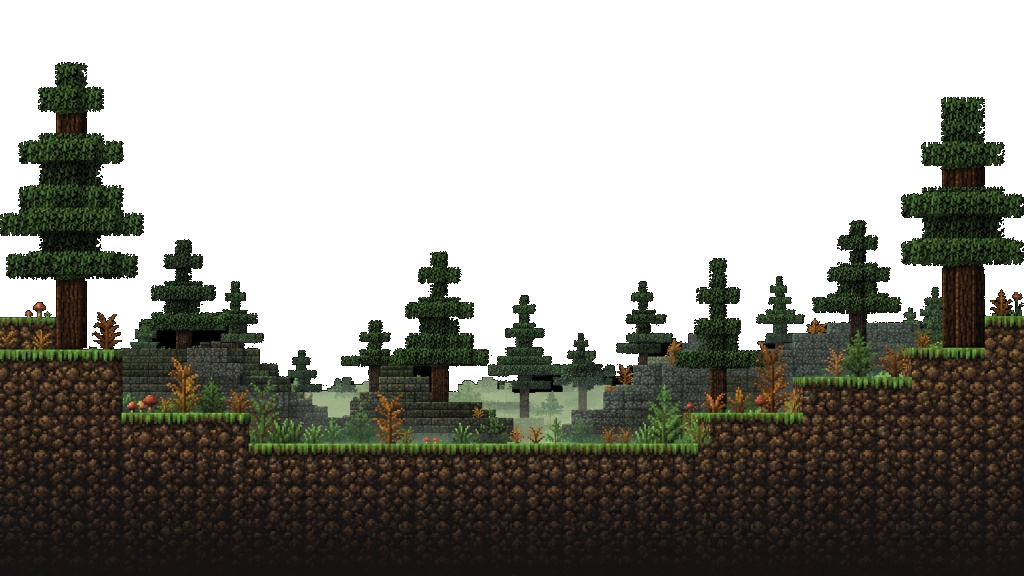
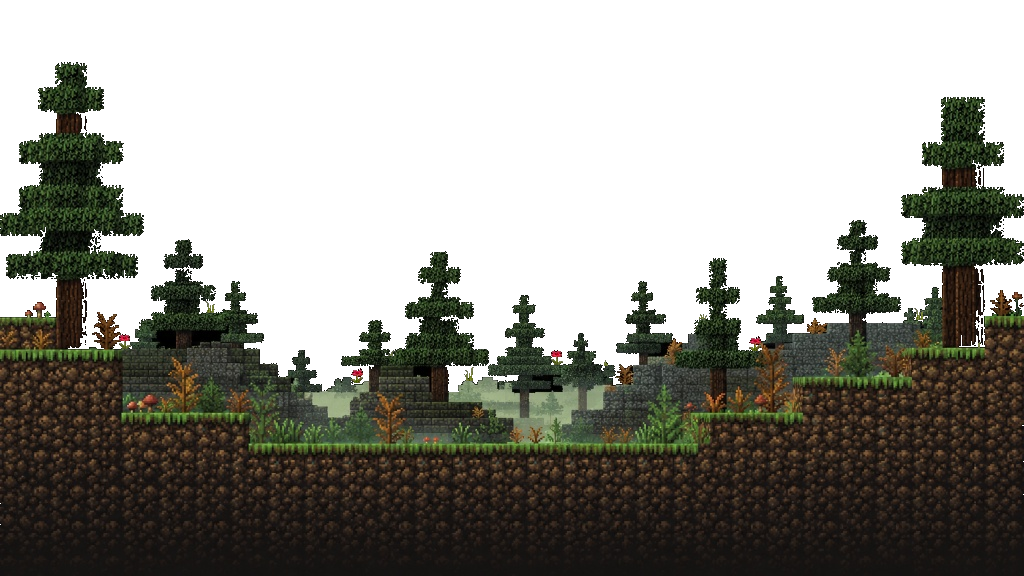
Spruce biome layer with flowers, slower fireflies, Minecraft font hierarchy, bigger hero title

diff --git a/style.css b/style.css
@@ -14,7 +14,10 @@
   src: url('assets/minecraft.ttf') format('truetype');
   font-display: swap;
 }
-.mcfont { font-family: 'MinecraftTen', 'MinecraftReg', 'Segoe UI', sans-serif; font-weight: 400; letter-spacing: 2px; }
+/* MinecraftReg (minecraft.ttf) = default readable MC font used everywhere.
+   MinecraftTen (minecraft-pe.ttf) = fancy display font, hero title only. */
+.mcfont { font-family: 'MinecraftReg', 'Segoe UI', sans-serif; font-weight: 400; letter-spacing: 1px; }
+.mcfancy { font-family: 'MinecraftTen', 'MinecraftReg', 'Segoe UI', sans-serif; font-weight: 400; letter-spacing: 2px; }
 
 :root {
   --bg: #0a0d12;
@@ -32,8 +35,8 @@ html { scroll-behavior: smooth; }
 body {
   background: var(--bg);
   color: var(--text);
-  font-family: 'Segoe UI', system-ui, -apple-system, sans-serif;
-  line-height: 1.6;
+  font-family: 'MinecraftReg', 'Segoe UI', system-ui, -apple-system, sans-serif;
+  line-height: 1.7;
   overflow-x: hidden;
 }
 img { max-width: 100%; display: block; }
@@ -42,10 +45,11 @@ a { color: inherit; text-decoration: none; }
 .accent { color: var(--red); }
 
 h1, h2 {
-  font-weight: 900;
-  letter-spacing: 0.5px;
+  font-family: 'MinecraftReg', 'Segoe UI', sans-serif;
+  font-weight: 400;
+  letter-spacing: 1px;
   text-transform: uppercase;
-  line-height: 1.08;
+  line-height: 1.14;
 }
 
 /* ── banner ── */
@@ -131,28 +135,49 @@ h1, h2 {
     radial-gradient(900px 480px at 30% 55%, rgba(6,8,18,0.55), transparent 70%);
 }
 
-/* fireflies — fly left → right, disappear off-screen ~2s, re-enter from left */
+/* fireflies — always drift left → right, random-looking up/down wander,
+   exit right, stay hidden off-screen a couple seconds, re-enter from left */
 .scene__flies { position: absolute; inset: 0; overflow: hidden; }
 .fly { position: absolute; left: -140px; will-change: transform; }
 .fly img { width: 110px; height: auto; image-rendering: pixelated; filter: drop-shadow(0 0 14px rgba(255,205,60,0.45)); }
-.fly--1 { top: 16%; animation: fly-x 20s linear infinite,        fly-bob 3.1s ease-in-out infinite alternate; }
-.fly--2 { top: 34%; animation: fly-x 26s linear infinite 5s,     fly-bob 2.6s ease-in-out infinite alternate .4s; }
+.fly--1 { top: 18%; animation: fly-x 26s linear infinite,        fly-wander-a 9s  ease-in-out infinite; }
+.fly--2 { top: 36%; animation: fly-x 34s linear infinite 6s,     fly-wander-b 11s ease-in-out infinite .8s; }
 .fly--2 img { width: 72px; }
-.fly--3 { top: 55%; animation: fly-x 23s linear infinite 11s,    fly-bob 3.7s ease-in-out infinite alternate .9s; }
+.fly--3 { top: 56%; animation: fly-x 30s linear infinite 14s,    fly-wander-c 8s  ease-in-out infinite 1.6s; }
 .fly--3 img { width: 88px; }
-.fly--4 { top: 8%;  animation: fly-x 31s linear infinite 8s,     fly-bob 2.9s ease-in-out infinite alternate .2s; }
+.fly--4 { top: 10%; animation: fly-x 40s linear infinite 10s,    fly-wander-b 13s ease-in-out infinite .3s; }
 .fly--4 img { width: 56px; opacity: .85; }
-.fly--5 { top: 68%; animation: fly-x 28s linear infinite 16s,    fly-bob 3.3s ease-in-out infinite alternate .6s; }
+.fly--5 { top: 66%; animation: fly-x 36s linear infinite 20s,    fly-wander-a 10s ease-in-out infinite 2.4s; }
 .fly--5 img { width: 64px; opacity: .9; }
-/* 0→90% crossing the screen; 90→100% (~2s+) parked off-screen right before restart at left */
+/* 0→88% crossing the screen; 88→100% (~3s+) parked off-screen right before restart at left */
 @keyframes fly-x {
   0%   { transform: translateX(0); }
-  90%  { transform: translateX(calc(100vw + 280px)); }
+  88%  { transform: translateX(calc(100vw + 280px)); }
   100% { transform: translateX(calc(100vw + 280px)); }
 }
-@keyframes fly-bob {
-  from { margin-top: 0; }
-  to   { margin-top: 26px; }
+/* three different wander paths so each firefly bobs up & down uniquely */
+@keyframes fly-wander-a {
+  0%   { margin-top: 0; }
+  22%  { margin-top: -34px; }
+  45%  { margin-top: 18px; }
+  68%  { margin-top: -12px; }
+  85%  { margin-top: 30px; }
+  100% { margin-top: 0; }
+}
+@keyframes fly-wander-b {
+  0%   { margin-top: 0; }
+  18%  { margin-top: 26px; }
+  40%  { margin-top: -30px; }
+  62%  { margin-top: 10px; }
+  82%  { margin-top: -22px; }
+  100% { margin-top: 0; }
+}
+@keyframes fly-wander-c {
+  0%   { margin-top: 0; }
+  30%  { margin-top: -24px; }
+  55%  { margin-top: 32px; }
+  75%  { margin-top: -8px; }
+  100% { margin-top: 0; }
 }
 @media (prefers-reduced-motion: reduce) {
   .fly, .scene__sky, .scene__stars { animation: none !important; }
@@ -161,12 +186,13 @@ h1, h2 {
 .hero__inner { max-width: 1100px; margin: 0 auto; position: relative; z-index: 2; }
 .hero__mark { width: 84px; height: 84px; margin-bottom: 18px; image-rendering: pixelated;
   filter: drop-shadow(0 6px 24px rgba(0,0,0,0.6)); }
-.hero h1 { font-size: clamp(34px, 5.4vw, 66px); margin-bottom: 26px;
-  text-shadow: 0 4px 0 rgba(0,0,0,0.45), 0 10px 30px rgba(0,0,0,0.6); }
+.hero h1 { font-size: clamp(46px, 7.4vw, 96px); margin-bottom: 26px;
+  text-shadow: 0 5px 0 rgba(0,0,0,0.5), 0 12px 36px rgba(0,0,0,0.65); }
 .hero__points li { text-shadow: 0 2px 6px rgba(0,0,0,0.8); }
 .hero__points { list-style: none; margin-bottom: 34px; }
 .hero__points li {
-  font-size: 14.5px; color: #c9d3de; padding: 3px 0;
+  font-size: 13px; color: #aeb9c6; padding: 3px 0;
+  font-family: 'Segoe UI', system-ui, sans-serif;
 }
 .hero__cta { display: flex; gap: 14px; flex-wrap: wrap; margin-bottom: 16px; }
 .hero__ver { font-size: 12.5px; color: var(--muted); }

diff --git a/index.html b/index.html
@@ -53,7 +53,7 @@
 
     <div class="hero__inner">
       <img class="hero__mark" src="assets/zyvora-icon.png" alt="">
-      <h1 class="mcfont">THE <span class="accent">BEST</span> FREE<br>MINECRAFT LAUNCHER</h1>
+      <h1 class="mcfancy">THE <span class="accent">BEST</span> FREE<br>MINECRAFT LAUNCHER</h1>
       <ul class="hero__points">
         <li>✔ 100% free — no ads, no paywalls</li>
         <li>✔ One-click modpack installs</li>
